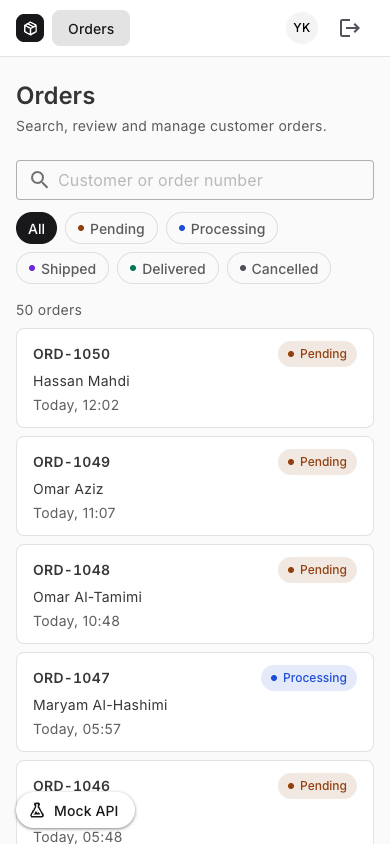
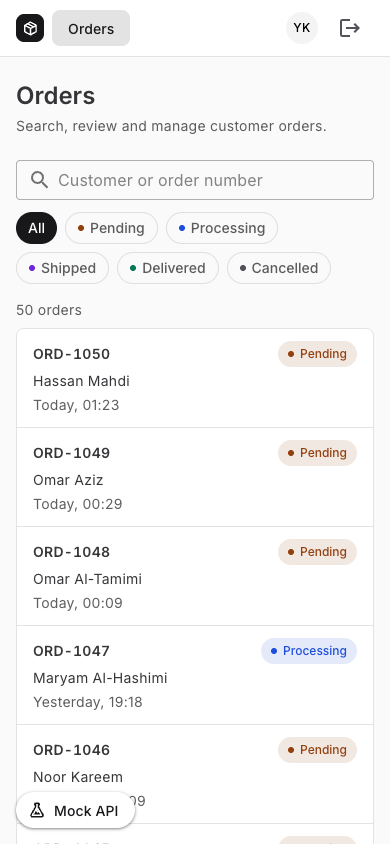
docs: describe where loaders go, and refresh the screenshots
The screenshots now come from a production build and show the progress
line, the grouped phone list and the quieter table headings.

diff --git a/README.md b/README.md
@@ -104,7 +104,11 @@ and errors shaped `{ message, code?, errors? }`. In production I'd move the toke
   through Vuetify's number input and mock routes through path-to-regexp. The only patterns left
   are Vue Router's route params: `:id(\d+)` only lets numeric ids into the order routes, and
   `(.*)` catches every other address for the 404 page.
-- **Accessibility:** a table on desktop and cards on phones. Everything works by keyboard, and focus
+- **Loading:** each loader sits on what's loading. Skeletons have the shape of the table, phone
+  list, details panel and form they stand in for, so nothing moves when data arrives. A search or
+  filter puts a bar along the top of the results (not in the search box), and a page or panel
+  still downloading puts one under the app bar. Buttons spin while their action saves.
+- **Accessibility:** a table on desktop and a list on phones. Everything works by keyboard, and focus
   returns to the order's row when a panel closes.
 - **Mock data:** 50 deterministic orders kept in `localStorage`, so changes survive a reload.
 
